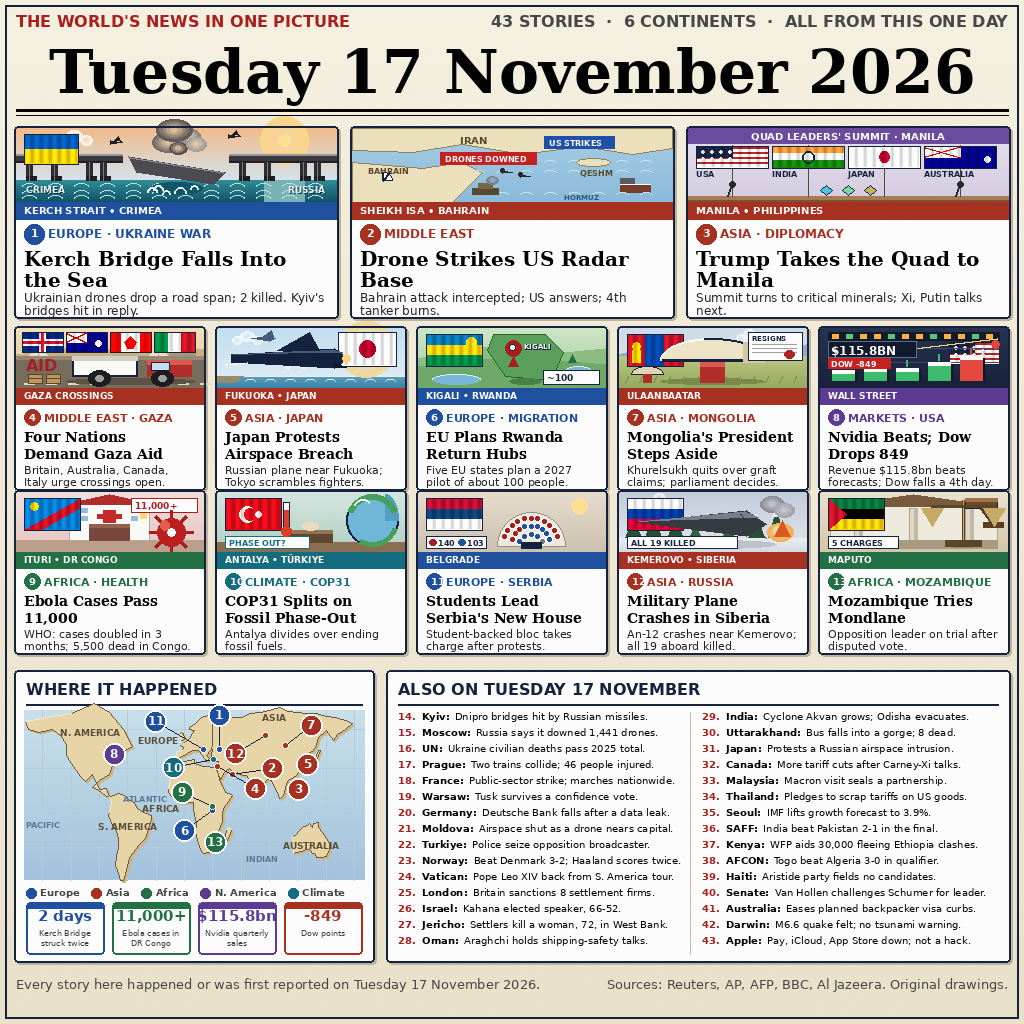
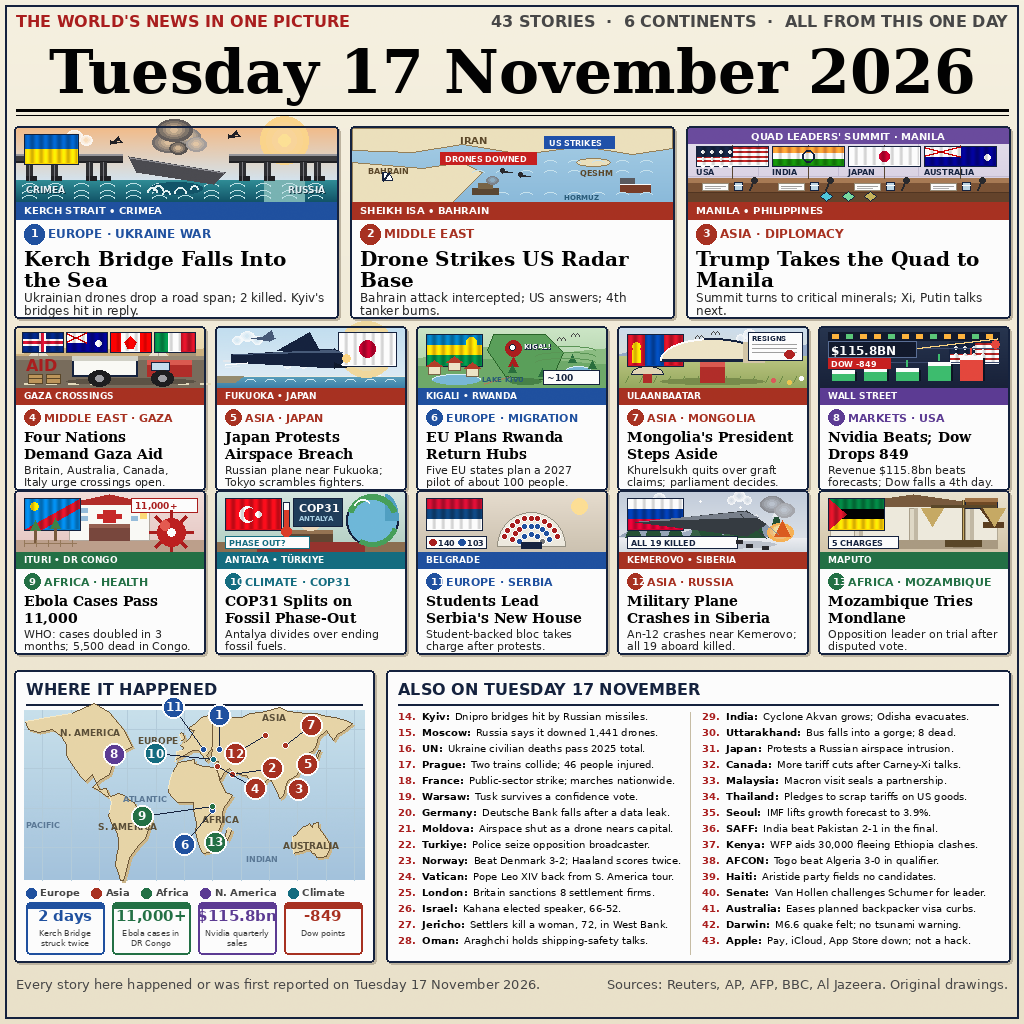
Revise: fill empty panels like top 1 — wider Quad table, Rwanda village, COP31 screen, Siberia mountains, spread map pins

diff --git a/tools/generate-image.py b/tools/generate-image.py
@@ -300,31 +300,47 @@ def pic(kind, x, y, w, h):
             d.ellipse([jx - 2, jy - 2, jx + 2, jy + 2], fill=(40, 40, 44))
     elif kind == "summit":
         # a meeting room, like the reference: pale wall, a purple banner
-        # on top, four flags standing on a brown conference table
+        # on top, four flags standing on a wide conference table
         vgrad(x, y, w, h, (232, 226, 240), (214, 206, 226))
+        # wall panelling behind the flags, and a rail below the labels
+        for px in (x + 70, x + 150, x + 230):
+            d.line([(px, y + 16), (px, y + 48)], fill=(198, 190, 212), width=1)
+        d.line([(x, y + 48), (x + w, y + 48)], fill=(198, 190, 212), width=1)
         banner = "QUAD LEADERS' SUMMIT · MANILA"
         bf = font(SANSB, 10)
         d.rectangle([x, y, x + w, y + 15], fill=(106, 74, 158))
         d.text(((x + x + w - d.textlength(banner, font=bf)) / 2, y + 2), banner, font=bf,
                fill=(255, 255, 255))
-        # brown table along the very bottom, with a polished top edge
-        d.rectangle([x, y + h - 6, x + w, y + h], fill=(122, 82, 52))
-        d.rectangle([x, y + h - 6, x + w, y + h - 3], fill=(168, 122, 84))
+        # a wide table: polished top surface, then the front face, so
+        # the flags stand on a real table instead of a thin strip
+        ty = y + h - 24
+        d.rectangle([x, ty, x + w, y + h], fill=(122, 82, 52))
+        d.rectangle([x, ty, x + w, ty + 4], fill=(168, 122, 84))
+        d.rectangle([x, ty + 14, x + w, y + h], fill=(100, 66, 42))
+        d.line([(x, ty + 14), (x + w, ty + 14)], fill=(80, 52, 32), width=1)
         fw = (w - 32) // 4
         for i, (fk, lab) in enumerate([("us", "USA"), ("india", "INDIA"), ("jp", "JAPAN"), ("australia", "AUSTRALIA")]):
             fx = x + 8 + i * (fw + 4)
             # a thin pole and a soft shadow where the flag meets the table
-            d.line([(fx + fw // 2, y + 17), (fx + fw // 2, y + h - 6)], fill=(90, 70, 50), width=1)
-            flag(fk, fx, y + 18, fw, 22)
-            d.text((fx, y + 41), lab, font=font(SANSB, 8), fill=NAVY)
-        # microphones in front of two of the flags, and a row of
-        # critical-minerals gems on the table, for the deals in the dek
-        for mx0 in (x + 40, x + w - 52):
-            d.line([(mx0, y + h - 6), (mx0 + 4, y + h - 18)], fill=(40, 40, 44), width=2)
-            d.ellipse([mx0 + 1, y + h - 21, mx0 + 7, y + h - 15], fill=(40, 40, 44))
-        for gx, gy, gc in [(x + w // 2 - 22, y + h - 12, (80, 200, 220)),
-                           (x + w // 2, y + h - 12, (120, 220, 160)),
-                           (x + w // 2 + 22, y + h - 12, (200, 180, 90))]:
+            d.line([(fx + fw // 2, y + 17), (fx + fw // 2, ty)], fill=(90, 70, 50), width=1)
+            flag(fk, fx, y + 18, fw, 20)
+            d.text((fx, y + 39), lab, font=font(SANSB, 8), fill=NAVY)
+        # place settings on the table top: a paper, a glass and a mic
+        # in front of each flag, so the table reads as a working summit
+        for i in range(4):
+            fx = x + 8 + i * (fw + 4)
+            cx0 = fx + 6
+            d.rectangle([cx0, ty + 5, cx0 + 26, ty + 12], fill=(255, 255, 255), outline=(150, 140, 120), width=1)
+            d.line([(cx0 + 3, ty + 8), (cx0 + 23, ty + 8)], fill=(160, 160, 160), width=1)
+            d.line([(cx0 + 3, ty + 10), (cx0 + 18, ty + 10)], fill=(180, 180, 180), width=1)
+            d.rectangle([cx0 + 32, ty + 4, cx0 + 40, ty + 12], fill=(190, 215, 230), outline=NAVY, width=1)
+            d.line([(cx0 + 32, ty + 7), (cx0 + 40, ty + 7)], fill=(255, 255, 255), width=1)
+            d.line([(cx0 + 48, ty + 12), (cx0 + 52, ty + 2)], fill=(40, 40, 44), width=2)
+            d.ellipse([cx0 + 49, ty - 1, cx0 + 55, ty + 5], fill=(40, 40, 44))
+        # critical-minerals gems on the table front, centre
+        for gx, gy, gc in [(x + w // 2 - 22, ty + 18, (80, 200, 220)),
+                           (x + w // 2, ty + 18, (120, 220, 160)),
+                           (x + w // 2 + 22, ty + 18, (200, 180, 90))]:
             d.polygon([(gx, gy - 5), (gx + 6, gy), (gx, gy + 5), (gx - 6, gy)], fill=gc,
                       outline=NAVY, width=1)
     elif kind == "truck":
@@ -421,6 +437,22 @@ def pic(kind, x, y, w, h):
         d.text((x + w // 2 + 13, y + 14), "KIGALI", font=font(SANSB, 7), fill=(255, 255, 255))
         d.ellipse([x + w - 40, y + h - 22, x + w - 14, y + h - 12], fill=(120, 185, 215))
         d.arc([x + w - 40, y + h - 22, x + w - 14, y + h - 12], 180, 360, fill=(220, 240, 250), width=1)
+        # a winding dirt road up to Kigali, a small village of houses
+        # with red roofs at the foot of the hills, terraced fields,
+        # more trees and birds — the green map now has life in it
+        d.line([(x + 66, y + h - 5), (x + 88, y + h - 11), (x + w // 2 - 2, y + h - 12)],
+               fill=(170, 130, 90), width=2)
+        for hx, hy in [(x + 10, y + h - 22), (x + 30, y + h - 26), (x + 48, y + h - 20)]:
+            d.rectangle([hx, hy, hx + 12, hy + 8], fill=(240, 230, 200), outline=(120, 100, 70), width=1)
+            d.polygon([(hx - 2, hy), (hx + 6, hy - 6), (hx + 14, hy)], fill=(178, 60, 40))
+        for ty_ in (y + 22, y + 28, y + 34):
+            d.arc([x + w - 70, ty_ - 4, x + w - 10, ty_ + 4], 180, 360, fill=(90, 150, 85), width=1)
+        for tx, ty in [(x + 90, y + 44), (x + 170, y + 40), (x + 120, y + 48)]:
+            d.polygon([(tx, ty), (tx + 4, ty - 8), (tx + 8, ty)], fill=(40, 110, 60))
+        for bx_, by_ in [(x + w - 30, y + 8), (x + w - 44, y + 12)]:
+            d.arc([bx_ - 4, by_ - 3, bx_, by_ + 3], 180, 360, fill=(70, 70, 70), width=1)
+            d.arc([bx_, by_ - 3, bx_ + 4, by_ + 3], 180, 360, fill=(70, 70, 70), width=1)
+        d.text((x + 64, y + h - 13), "LAKE KIVU", font=font(SANSB, 7), fill=(40, 90, 120))
         # pilot size, from the dek: about 100 people. Drawn last so the
         # map shape and its shadow never cover the tag.
         d.rectangle([x + w - 62, y + h - 18, x + w - 6, y + h - 4], fill=(255, 255, 255), outline=NAVY, width=1)
@@ -439,6 +471,13 @@ def pic(kind, x, y, w, h):
         vgrad(x, y + 28, w, h - 28, (190, 200, 130), (150, 170, 95))
         for gx in range(x + 6, x + w - 6, 14):
             d.line([(gx, y + h - 6), (gx + 3, y + h - 12)], fill=(110, 140, 70), width=1)
+        # wildflowers on the steppe, and birds in the sky
+        for fx_, fy_, fc in [(x + 152, y + h - 10, (220, 90, 90)), (x + 168, y + h - 8, (240, 200, 80)),
+                             (x + 180, y + h - 12, (255, 255, 255))]:
+            d.ellipse([fx_, fy_, fx_ + 4, fy_ + 4], fill=fc)
+        for bx_, by_ in [(x + 80, y + 10), (x + 96, y + 6)]:
+            d.arc([bx_ - 4, by_ - 3, bx_, by_ + 3], 180, 360, fill=(70, 70, 70), width=1)
+            d.arc([bx_, by_ - 3, bx_ + 4, by_ + 3], 180, 360, fill=(70, 70, 70), width=1)
         flag("mongolia", x + 8, y + 6, 56, 32)
         # the ger (yurt): domed roof with a shaded side, red door, cast shadow
         d.ellipse([x + w // 2 - 52, y + h - 10, x + w // 2 + 52, y + h - 4], fill=(120, 140, 75))
@@ -505,6 +544,13 @@ def pic(kind, x, y, w, h):
             d.rectangle([x + w // 2 - 28, wy, x + w // 2 - 22, wy + 4], fill=(150, 190, 220))
             d.rectangle([x + w // 2 + 22, wy, x + w // 2 + 28, wy + 4], fill=(150, 190, 220))
         flag("congo", x + 8, y + 6, 56, 32)
+        # two small trees and a fence along the clinic yard, left side
+        for tx, ty in [(x + 14, y + h - 22), (x + 34, y + h - 24)]:
+            d.polygon([(tx, ty), (tx + 5, ty - 10), (tx + 10, ty)], fill=(60, 130, 70))
+            d.rectangle([tx + 4, ty, tx + 6, ty + 12], fill=(120, 90, 60))
+        for fx_ in range(x + 8, x + 60, 12):
+            d.line([(fx_, y + h - 12), (fx_, y + h - 6)], fill=(150, 120, 90), width=1)
+        d.line([(x + 8, y + h - 9), (x + 60, y + h - 9)], fill=(150, 120, 90), width=1)
         # the case count from the headline, as a tag top-right
         d.rectangle([x + w - 72, y + 6, x + w - 6, y + 20], fill=(255, 255, 255), outline=RED, width=1)
         d.text((x + w - 68, y + 8), "11,000+", font=font(SANSB, 9), fill=RED)
@@ -524,6 +570,12 @@ def pic(kind, x, y, w, h):
         d.rectangle([x + w // 2 - 22, y + h - 22, x + w // 2 + 22, y + h - 19], fill=(150, 115, 82))
         d.ellipse([x + w // 2 - 8, y + h - 30, x + w // 2 + 8, y + h - 22], fill=(240, 220, 190))
         flag("turkiye", x + 8, y + 6, 56, 32)
+        # a conference screen on the wall between the flag and the
+        # globe, a red carpet on the floor, and delegates in front
+        d.rectangle([x + 76, y + 6, x + w - 62, y + 34], fill=(30, 60, 90), outline=NAVY, width=1)
+        d.text((x + 82, y + 9), "COP31", font=font(SANSB, 11), fill=(255, 255, 255))
+        d.text((x + 82, y + 22), "ANTALYA", font=font(SANSB, 7), fill=(170, 210, 230))
+        d.rectangle([x + 40, y + h - 10, x + w - 40, y + h], fill=(150, 50, 45))
         # globe: ocean gradient, green land arcs, a bright highlight —
         # bigger now, filling the right half of the panel
         gx0, gy0 = x + w - 58, y + 2
@@ -573,8 +625,20 @@ def pic(kind, x, y, w, h):
         # a snowy Siberian forest at dusk: grey-blue sky, pines, snow, smoke
         vgrad(x, y, w, h, (196, 206, 220), (228, 232, 238))
         cloud(x + 40, y + 8, 9, (200, 210, 222))
+        cloud(x + 120, y + 6, 8, (200, 210, 222))
+        # falling snow over the whole scene
+        for sx, sy in [(x + 80, y + 8), (x + 120, y + 14), (x + 150, y + 6), (x + 60, y + 18),
+                       (x + 100, y + 22), (x + 170, y + 20)]:
+            d.ellipse([sx, sy, sx + 2, sy + 2], fill=(255, 255, 255))
+        # snow-capped mountains along the horizon, behind the forest
+        d.polygon([(x, y + h - 16), (x + 30, y + h - 34), (x + 60, y + h - 16)], fill=(150, 165, 185))
+        d.polygon([(x + 22, y + h - 30), (x + 30, y + h - 34), (x + 38, y + h - 30)], fill=(240, 242, 246))
+        d.polygon([(x + w - 90, y + h - 16), (x + w - 55, y + h - 36), (x + w - 20, y + h - 16)], fill=(140, 155, 175))
+        d.polygon([(x + w - 63, y + h - 32), (x + w - 55, y + h - 36), (x + w - 47, y + h - 32)], fill=(240, 242, 246))
+        d.polygon([(x + w // 2 - 40, y + h - 16), (x + w // 2, y + h - 30), (x + w // 2 + 40, y + h - 16)], fill=(160, 175, 195))
         # pine trees along the back, snow-capped, in two depths
-        for tx, th in [(x + 6, 22), (x + 26, 28), (x + 48, 20), (x + w - 58, 24), (x + w - 38, 28)]:
+        for tx, th in [(x + 6, 22), (x + 26, 28), (x + 48, 20), (x + w - 58, 24), (x + w - 38, 28),
+                       (x + 88, 18), (x + 108, 22), (x + w - 110, 20), (x + w - 70, 18)]:
             d.polygon([(tx, y + h - 14), (tx + 8, y + h - 14 - th), (tx + 16, y + h - 14)],
                       fill=(36, 80, 52))
             d.polygon([(tx + 4, y + h - 14 - th + 6), (tx + 8, y + h - 14 - th), (tx + 12, y + h - 14 - th + 6)],
@@ -601,6 +665,11 @@ def pic(kind, x, y, w, h):
         soft_disc(x + w - 26, y + h - 20, 13, 9, (255, 170, 60), (220, 224, 232), steps=4)
         soft_disc(x + w - 26, y + h - 22, 7, 5, (255, 220, 120), (220, 224, 232), steps=3)
         d.polygon([(x + w - 32, y + h - 16), (x + w - 24, y + h - 32), (x + w - 16, y + h - 16)], fill=(220, 90, 30))
+        # debris scattered on the snow around the impact, and a smoke
+        # trail from the plane back to the fire
+        for dx_, dy_ in [(x + w - 60, y + h - 8), (x + w - 70, y + h - 12), (x + w - 44, y + h - 6)]:
+            d.rectangle([dx_, dy_, dx_ + 6, dy_ + 3], fill=(40, 40, 44))
+        d.line([(x + w - 40, y + h // 2 + 2), (x + w - 28, y + h - 18)], fill=(150, 150, 155), width=1)
     elif kind == "scales":
         # a courthouse in Maputo: warm sky, a columned facade, shaded steps
         vgrad(x, y, w, h, (236, 228, 208), (214, 200, 172))
@@ -755,7 +824,7 @@ LAND = [
     ([(-79, 9), (-77, 4), (-80, -3), (-81, -6), (-77, -12), (-72, -18), (-70, -23), (-70, -30), (-72, -37), (-73, -44), (-70, -50), (-68, -55), (-65, -55), (-62, -48), (-58, -38), (-52, -32), (-48, -28), (-41, -23), (-35, -9), (-35, -6), (-44, -3), (-50, 0), (-53, 4), (-58, 6), (-62, 9), (-70, 11), (-75, 10)], "S. AMERICA", -60, -14),
     ([(-10, 36), (-9, 43), (-2, 44), (-1, 46), (-4, 48), (-1, 50), (2, 51), (5, 53), (8, 57), (10, 59), (5, 60), (5, 62), (12, 65), (18, 69), (25, 71), (30, 70), (35, 68), (40, 68), (45, 65), (48, 60), (45, 55), (40, 50), (38, 46), (32, 46), (28, 45), (23, 40), (26, 38), (23, 36), (19, 40), (15, 44), (12, 44), (8, 44), (3, 42), (-9, 37)], "EUROPE", -28, 52),
     ([(-5, 50), (-3, 53), (-5, 56), (-3, 58), (-1, 57), (0, 53)], None, None, None),
-    ([(-17, 15), (-16, 20), (-13, 27), (-10, 31), (-6, 35), (0, 36), (10, 37), (11, 34), (20, 32), (25, 32), (30, 31), (32, 31), (35, 28), (37, 22), (39, 18), (43, 12), (48, 11), (51, 10), (46, 5), (41, 0), (40, -5), (40, -10), (36, -18), (33, -26), (28, -33), (20, -35), (17, -32), (15, -27), (12, -18), (13, -12), (9, -1), (9, 4), (-8, 4), (-13, 8), (-17, 12)], "AFRICA", -25, 0),
+    ([(-17, 15), (-16, 20), (-13, 27), (-10, 31), (-6, 35), (0, 36), (10, 37), (11, 34), (20, 32), (25, 32), (30, 31), (32, 31), (35, 28), (37, 22), (39, 18), (43, 12), (48, 11), (51, 10), (46, 5), (41, 0), (40, -5), (40, -10), (36, -18), (33, -26), (28, -33), (20, -35), (17, -32), (15, -27), (12, -18), (13, -12), (9, -1), (9, 4), (-8, 4), (-13, 8), (-17, 12)], "AFRICA", 38, -8),
     ([(44, -16), (47, -15), (50, -16), (49, -20), (45, -25), (43, -22)], None, None, None),
     ([(30, 70), (40, 68), (50, 69), (60, 69), (70, 72), (80, 73), (90, 75), (100, 77), (110, 74), (120, 73), (130, 72), (140, 72), (150, 70), (160, 69), (170, 67), (178, 65), (170, 60), (162, 56), (158, 52), (150, 59), (142, 54), (140, 48), (135, 43), (130, 42), (127, 40), (122, 38), (120, 32), (122, 28), (118, 25), (110, 21), (108, 18), (105, 10), (103, 8), (100, 7), (98, 12), (95, 16), (92, 21), (88, 22), (85, 19), (80, 15), (77, 8), (75, 12), (72, 20), (68, 23), (66, 25), (62, 25), (58, 26), (56, 27), (52, 26), (50, 29), (48, 30), (44, 29), (42, 27), (40, 24), (38, 22), (35, 28), (34, 31), (36, 36), (30, 36), (27, 38), (28, 41), (30, 45), (28, 46), (30, 48), (30, 60)], "ASIA", 95, 70),
     ([(130, 31), (133, 33), (136, 34), (139, 35), (141, 38), (142, 41), (144, 44), (142, 44), (140, 40), (137, 35), (133, 32)], None, None, None),
@@ -771,9 +840,9 @@ for olab, olon, olat in [("ATLANTIC", -42, 8), ("PACIFIC", -150, -12), ("INDIAN"
 # numbered pins: (lon, lat, label dx, label dy) — clustered pins get a
 # leader line from their true spot to a spread-out numbered circle
 PINS = {1: (37, 45, 0, -34), 2: (50.5, 26, 40, -6), 3: (121, 14.5, 0, 0),
-        4: (34.5, 31.5, 38, 22), 5: (130.5, 33.6, 0, 0), 6: (30, -2, -28, 20),
-        7: (107, 48, 26, -20), 8: (-74, 41, 0, 0), 9: (29.5, 1.5, -30, -14),
-        10: (30.7, 36.9, -40, 8), 11: (20.5, 44.8, -48, -28),
+        4: (34.5, 31.5, 38, 22), 5: (130.5, 33.6, 0, 0), 6: (30, -2, -28, 34),
+        7: (107, 48, 26, -20), 8: (-74, 41, 0, 0), 9: (29.5, 1.5, -70, 10),
+        10: (30.7, 36.9, -58, -6), 11: (20.5, 44.8, -30, -42),
         12: (86, 55.3, -30, 18), 13: (32.6, -26, 0, 0)}
 PINCOL = {1: BLUE, 2: CRIMSON, 3: CRIMSON, 4: CRIMSON, 5: CRIMSON, 6: BLUE, 7: CRIMSON, 8: PURPLE,
           9: GREEN, 10: TEAL, 11: BLUE, 12: CRIMSON, 13: GREEN}
